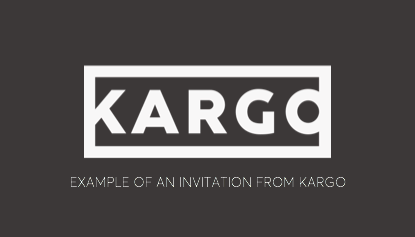
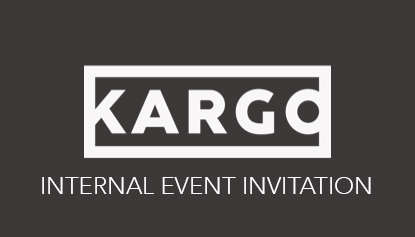
Worked on the Portfolio Items

Changed region(s): [[0.0867, 0.7384, 0.8964, 0.827]]

diff --git a/portfolio-item2.html b/portfolio-item2.html
@@ -6,7 +6,7 @@
 <meta name="viewport" content="width=device-width, initial-scale=1">
 <meta name="description" content="">
 <meta name="author" content="">
-<title>Eleni Speal Personal Website</title>
+<title>Eleni Speal's Personal Website</title>
 <!-- Bootstrap Core CSS -->
 <link href="css/bootstrap.min.css" rel="stylesheet">
 <!-- Custom CSS -->
@@ -58,9 +58,9 @@
 	<div class="container">
 		<div class="row">
 			<div class="col-md-8 col-md-offset-2">
-				<h1 class="brand-heading">Portfolio</h1>
+				<h1 class="brand-heading">Concordia Undergraduate Journal of Art History</h1>
 				<p class="intro-text">
-				
+					Various Event Posters
 				</p>
 				<a href="#single-project" class="btn btn-circle page-scroll">
 				<i class="fa fa-angle-double-down animated"></i>
@@ -70,85 +70,44 @@
 	</div>
 </div>
 </header>
-<!-- Thumbnails of Various Projects -->
-<section id="portfolio">
-<div class="gallery">
-	<div class="container content-section text-center">
-		<li class="col-md-4">
+<section id="single-project">
+<div class="container content-section text-center">
+	<div class="row">
+		<div class="container content-section text-center">
+		<div class="row">
 		<a href="portfolio-item.html">
-		<img src="img/Invitationsmall2.jpg" alt="">
+		<img src="img/GradShop.jpg" alt="">
 		</a>
-		</li>
-		<li class="col-md-4">
-		<a href="portfolio-item2.html">
-		<img src="img/Invitationsmall.jpg" alt="">
-		</a>
-		</li>
-		<!-- <<div class="row">
-		<a href="portfolio-item.html">
-		<img src="img/Invitationsmall.jpg" alt="">
-		</a>
-		</div>-->
 		</div>
-		<!-- <li class="col-md-3">
+		</div>
+		<div class="row">
+		<div class="container content-section text-center">
+		<div class="row">
 		<a href="portfolio-item.html">
-		<img src="http://unsplash.it/680/380?random=2" alt="">
+		<img src="img/CCA.jpg" alt="">
 		</a>
-		</li>
-		<li class="col-md-3">
+		</div>
+		</div>
+		<div class="row">
+		<div class="container content-section text-center">
+		<div class="row">
 		<a href="portfolio-item.html">
-		<img src="http://unsplash.it/680/380?random=3" alt="">
+		<img src="img/DisConnect.jpg" alt="">
 		</a>
-		</li>
-		<li class="col-md-3">
-		<a class="image" href="portfolio-item.html">
-		<img src="http://unsplash.it/680/380?random=4" alt="">
-		</a>
-		</li>
-		<li class="col-md-3">
-		<a href="portfolio-item.html">
-		<img src="http://unsplash.it/680/380?random=5" alt="">
-		</a>
-		</li>
-		<li class="col-md-3">
-		<a href="portfolio-item.html">
-		<img src="http://unsplash.it/680/380?random=6" alt="">
-		</a>
-		</li>
-		<li class="col-md-3">
-		<a href="portfolio-item.html">
-		<img src="http://unsplash.it/680/380?random=7" alt="">
-		</a>
-		</li>
-		<li class="col-md-3">
-		<a href="portfolio-item.html">
-		<img src="http://unsplash.it/680/380?random=8" alt="">
-		</a>
-		</li>
-				<li class="col-md-3">
-		<a href="portfolio-item.html">
-		<img src="http://unsplash.it/680/380?random=10" alt="">
-		</a>
-		</li>
-		<li class="col-md-3">
-		<a href="portfolio-item.html">
-		<img src="http://unsplash.it/680/380?random=11" alt="">
-		</a>
-		</li>
-		<li class="col-md-3">
-		<a href="portfolio-item.html">
-		<img src="http://unsplash.it/680/380?random=12" alt="">
-		</a>
-		</li>
-		<li class="col-md-3">
-		<a href="portfolio-item.html">
-		<img src="http://unsplash.it/680/380?random=13" alt="">
-		</a>
-		</li>-->
-	</ul>
+		</div>
+		</div>
+		<div class="col-lg-8 col-lg-offset-2">
+			<p>
+				Designed using Adobe InDesign <a href="#"></a> 
+			</p>
+			<p>
+				<a href="portfolio.html" class="btnghost"><i class="fa fa-undo"></i> Back to porfolio</a>
+			</p>
+		</div>
+	</div>
 </div>
 </section>
-<Footer>
+<!-- Footer -->
 <footer>
 <div class="container text-center">
 	<ul class="list-inline banner-social-buttons">

diff --git a/portfolio-item.html b/portfolio-item.html
@@ -58,9 +58,9 @@
 	<div class="container">
 		<div class="row">
 			<div class="col-md-8 col-md-offset-2">
-				<h1 class="brand-heading">Kargo Internal Invitation</h1>
+				<h1 class="brand-heading">Kargo</h1>
 				<p class="intro-text">
-					
+					Invitation for Company-Wide Event
 				</p>
 				<a href="#single-project" class="btn btn-circle page-scroll">
 				<i class="fa fa-angle-double-down animated"></i>
